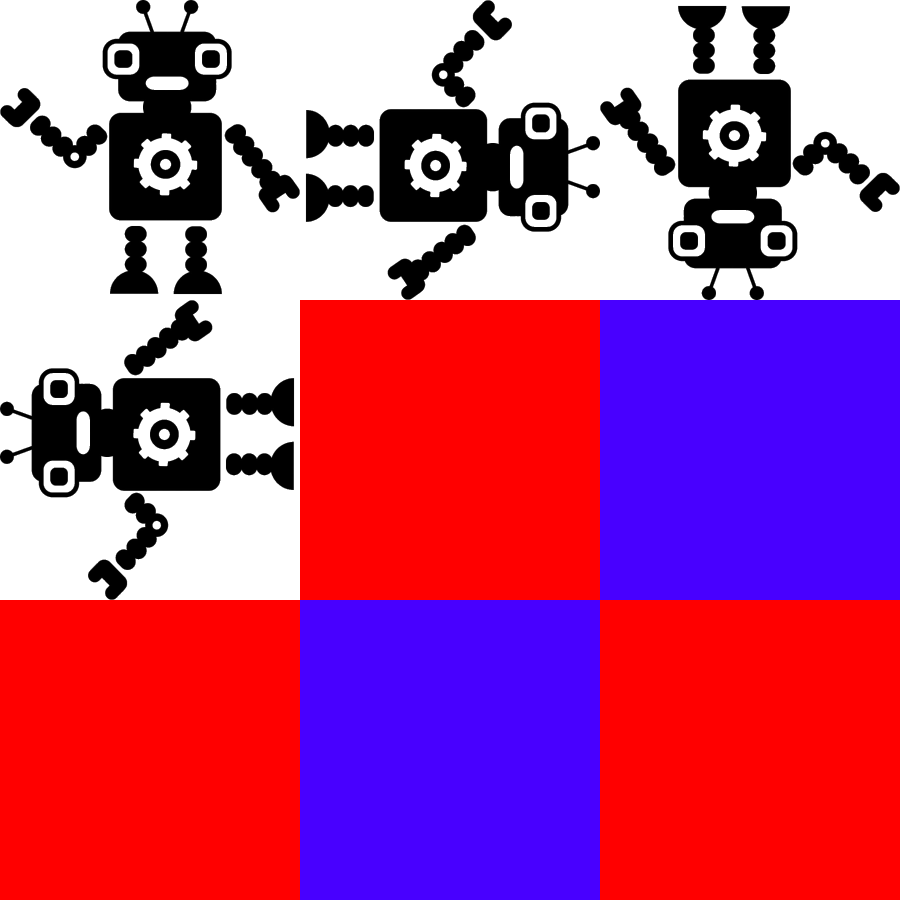
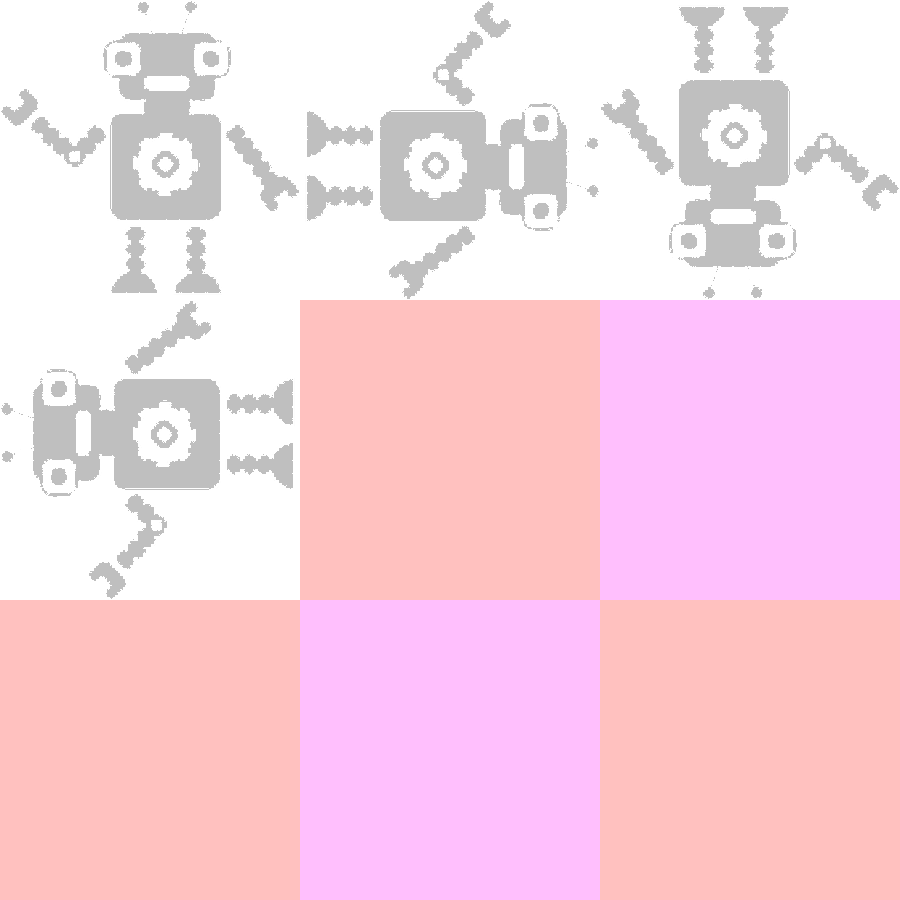
Render robots with color of the robot

diff --git a/src/main/java/no/uib/inf112/core/map/ColorfulOrthogonalTiledMapRenderer.java b/src/main/java/no/uib/inf112/core/map/ColorfulOrthogonalTiledMapRenderer.java
@@ -1,0 +1,171 @@
+package no.uib.inf112.core.map;
+
+import com.badlogic.gdx.graphics.Color;
+import com.badlogic.gdx.graphics.g2d.TextureRegion;
+import com.badlogic.gdx.maps.tiled.TiledMap;
+import com.badlogic.gdx.maps.tiled.TiledMapTile;
+import com.badlogic.gdx.maps.tiled.TiledMapTileLayer;
+import com.badlogic.gdx.maps.tiled.renderers.OrthogonalTiledMapRenderer;
+import no.uib.inf112.core.GameGraphics;
+import no.uib.inf112.core.player.Robot;
+
+import static com.badlogic.gdx.graphics.g2d.Batch.*;
+import static com.badlogic.gdx.maps.tiled.TiledMapTileLayer.Cell.*;
+
+public class ColorfulOrthogonalTiledMapRenderer extends OrthogonalTiledMapRenderer {
+
+    public ColorfulOrthogonalTiledMapRenderer(TiledMap map) {
+        super(map);
+    }
+
+    @SuppressWarnings("Duplicates")
+    @Override
+    public void renderTileLayer(TiledMapTileLayer layer) {
+        final Color batchColor = batch.getColor();
+        final float color = Color.toFloatBits(batchColor.r, batchColor.g, batchColor.b, batchColor.a * layer.getOpacity());
+
+        final int layerWidth = layer.getWidth();
+        final int layerHeight = layer.getHeight();
+
+        final float layerTileWidth = layer.getTileWidth() * unitScale;
+        final float layerTileHeight = layer.getTileHeight() * unitScale;
+
+        final float layerOffsetX = layer.getRenderOffsetX() * unitScale;
+        // offset in tiled is y down, so we flip it
+        final float layerOffsetY = -layer.getRenderOffsetY() * unitScale;
+
+        final int col1 = Math.max(0, (int) ((viewBounds.x - layerOffsetX) / layerTileWidth));
+        final int col2 = Math.min(layerWidth,
+                (int) ((viewBounds.x + viewBounds.width + layerTileWidth - layerOffsetX) / layerTileWidth));
+
+        final int row1 = Math.max(0, (int) ((viewBounds.y - layerOffsetY) / layerTileHeight));
+        final int row2 = Math.min(layerHeight,
+                (int) ((viewBounds.y + viewBounds.height + layerTileHeight - layerOffsetY) / layerTileHeight));
+
+        float y = row2 * layerTileHeight + layerOffsetY;
+        float xStart = col1 * layerTileWidth + layerOffsetX;
+        final float[] vertices = this.vertices;
+
+        for (int row = row2; row >= row1; row--) {
+            float x = xStart;
+            for (int col = col1; col < col2; col++) {
+                final TiledMapTileLayer.Cell cell = layer.getCell(col, row);
+                if (cell == null) {
+                    x += layerTileWidth;
+                    continue;
+                }
+                final TiledMapTile tile = cell.getTile();
+
+                if (tile != null) {
+                    final boolean flipX = cell.getFlipHorizontally();
+                    final boolean flipY = cell.getFlipVertically();
+                    final int rotations = cell.getRotation();
+
+                    TextureRegion region = tile.getTextureRegion();
+
+                    float x1 = x + tile.getOffsetX() * unitScale;
+                    float y1 = y + tile.getOffsetY() * unitScale;
+                    float x2 = x1 + region.getRegionWidth() * unitScale;
+                    float y2 = y1 + region.getRegionHeight() * unitScale;
+
+                    float u1 = region.getU();
+                    float v1 = region.getV2();
+                    float u2 = region.getU2();
+                    float v2 = region.getV();
+
+                    float color1 = color;
+                    TileType tt = TileType.fromTiledId(tile.getId());
+                    if (tt.getGroup() == TileType.Group.ROBOT) {
+                        Robot robot = (Robot) GameGraphics.getRoboRally().getCurrentMap().getEntity(col, row);
+                        if (robot != null) {
+                            Color c = robot.getColor();
+                            color1 = Color.toFloatBits(c.r, c.g, c.b, c.a);
+                        }
+                    }
+
+                    vertices[X1] = x1;
+                    vertices[Y1] = y1;
+                    vertices[C1] = color1;
+                    vertices[U1] = u1;
+                    vertices[V1] = v1;
+
+                    vertices[X2] = x1;
+                    vertices[Y2] = y2;
+                    vertices[C2] = color1;
+                    vertices[U2] = u1;
+                    vertices[V2] = v2;
+
+                    vertices[X3] = x2;
+                    vertices[Y3] = y2;
+                    vertices[C3] = color1;
+                    vertices[U3] = u2;
+                    vertices[V3] = v2;
+
+                    vertices[X4] = x2;
+                    vertices[Y4] = y1;
+                    vertices[C4] = color1;
+                    vertices[U4] = u2;
+                    vertices[V4] = v1;
+
+                    if (flipX) {
+                        float temp = vertices[U1];
+                        vertices[U1] = vertices[U3];
+                        vertices[U3] = temp;
+                        temp = vertices[U2];
+                        vertices[U2] = vertices[U4];
+                        vertices[U4] = temp;
+                    }
+                    if (flipY) {
+                        float temp = vertices[V1];
+                        vertices[V1] = vertices[V3];
+                        vertices[V3] = temp;
+                        temp = vertices[V2];
+                        vertices[V2] = vertices[V4];
+                        vertices[V4] = temp;
+                    }
+                    if (rotations != 0) {
+                        switch (rotations) {
+                            case ROTATE_90: {
+                                float tempV = vertices[V1];
+                                vertices[V1] = vertices[V2];
+                                vertices[V3] = vertices[V4];
+
+                                float tempU = vertices[U1];
+                                vertices[U2] = vertices[U3];
+                                vertices[U4] = tempU;
+                                break;
+                            }
+                            case ROTATE_180: {
+                                float tempU = vertices[U1];
+                                vertices[U1] = vertices[U3];
+                                vertices[U3] = tempU;
+                                tempU = vertices[U2];
+                                vertices[U2] = vertices[U4];
+                                vertices[U4] = tempU;
+                                float tempV = vertices[V1];
+                                vertices[V1] = vertices[V3];
+                                vertices[V3] = tempV;
+                                tempV = vertices[V2];
+                                vertices[V2] = vertices[V4];
+                                vertices[V4] = tempV;
+                                break;
+                            }
+                            case ROTATE_270: {
+                                float tempV = vertices[V1];
+                                vertices[V4] = vertices[V3];
+                                vertices[V2] = tempV;
+
+                                vertices[U1] = vertices[U4];
+                                vertices[U3] = vertices[U2];
+                                break;
+                            }
+                        }
+                    }
+                    batch.draw(region.getTexture(), vertices, 0, NUM_VERTICES);
+                }
+                x += layerTileWidth;
+            }
+            y -= layerTileHeight;
+        }
+    }
+}

diff --git a/src/main/java/no/uib/inf112/core/player/Robot.java b/src/main/java/no/uib/inf112/core/player/Robot.java
@@ -1,5 +1,6 @@
 package no.uib.inf112.core.player;
 
+import com.badlogic.gdx.graphics.Color;
 import com.badlogic.gdx.maps.tiled.TiledMapTile;
 import no.uib.inf112.core.GameGraphics;
 import no.uib.inf112.core.map.MapHandler;
@@ -13,6 +14,8 @@ public class Robot implements Entity {
     private int x, y;
     boolean update;
 
+    Color color;
+
     /**
      * @param x         The x position the player starts at
      * @param y         The y position the player starts at
@@ -22,9 +25,10 @@ public class Robot implements Entity {
      * @throws IllegalArgumentException If there is already an entity at the given {@code (x,y)}. See {@link MapHandler#addEntity(Entity)}
      * @throws IllegalStateException    If no {@link TiledMapTile} can be found
      */
-    public Robot(int x, int y, Direction direction) {
+    public Robot(int x, int y, Direction direction, Color color) {
         this.x = x;
         this.y = y;
+        this.color = color;
 
         if (direction == null) {
             throw new IllegalArgumentException("Given direction can not be null");
@@ -132,5 +136,9 @@ public class Robot implements Entity {
     @Override
     public void update(boolean update) {
         this.update = update;
+    }
+
+    public Color getColor() {
+        return color;
     }
 }

diff --git a/src/main/java/no/uib/inf112/core/player/Player.java b/src/main/java/no/uib/inf112/core/player/Player.java
@@ -1,5 +1,6 @@
 package no.uib.inf112.core.player;
 
+import com.badlogic.gdx.graphics.Color;
 import no.uib.inf112.core.GameGraphics;
 import no.uib.inf112.core.map.cards.Movement;
 import no.uib.inf112.core.util.Vector2Int;
@@ -34,14 +35,14 @@ public abstract class Player implements IPlayer {
      * @throws IllegalArgumentException See {@link Robot#Robot(int, int, Direction)}
      * @throws IllegalStateException    See {@link Robot#Robot(int, int, Direction)}
      */
-    public Player(int x, int y, @NotNull Direction direction) {
+    public Player(int x, int y, @NotNull Direction direction, Color color) {
         backup = new Vector2Int(x, y);
 
         flags = 0;
         lives = MAX_LIVES;
         health = MAX_HEALTH;
         poweredDown = false;
-        robot = new Robot(x, y, direction);
+        robot = new Robot(x, y, direction, color);
     }
 
     @Override

diff --git a/src/main/java/no/uib/inf112/core/map/GameMap.java b/src/main/java/no/uib/inf112/core/map/GameMap.java
@@ -6,7 +6,6 @@ import com.badlogic.gdx.maps.tiled.TiledMap;
 import com.badlogic.gdx.maps.tiled.TiledMapTileLayer;
 import com.badlogic.gdx.maps.tiled.TiledMapTileSets;
 import com.badlogic.gdx.maps.tiled.TmxMapLoader;
-import com.badlogic.gdx.math.Vector2;
 import no.uib.inf112.core.GameGraphics;
 import no.uib.inf112.core.player.Entity;
 import no.uib.inf112.core.util.Vector2Int;
@@ -112,7 +111,7 @@ public abstract class GameMap implements MapHandler {
     @Override
     @Nullable
     public Entity getEntity(int x, int y) {
-        Vector2 v = new Vector2(x, y);
+        Vector2Int v = new Vector2Int(x, y);
         for (Map.Entry<Entity, Vector2Int> entry : entities.entrySet()) {
             if (v.equals(entry.getValue())) {
                 return entry.getKey();

diff --git a/src/test/java/no/uib/inf112/core/player/RobotTest.java b/src/test/java/no/uib/inf112/core/player/RobotTest.java
@@ -1,5 +1,6 @@
 package no.uib.inf112.core.player;
 
+import com.badlogic.gdx.graphics.Color;
 import no.uib.inf112.core.GameGraphics;
 import no.uib.inf112.core.RoboRally;
 import no.uib.inf112.core.map.TileType;
@@ -105,7 +106,7 @@ public class RobotTest extends TestGraphics {
 
     @Test
     public void turningRightTwiceShouldHaveTheSameResultAsAUTurn() {
-        Robot testBot2 = new Robot(5, 5, testBot.getDirection());
+        Robot testBot2 = new Robot(5, 5, testBot.getDirection(), Color.BLUE);
         player.moveRobot(Movement.RIGHT_TURN);
         player.moveRobot(Movement.RIGHT_TURN);
         player.moveRobot(Movement.U_TURN);

diff --git a/src/main/java/no/uib/inf112/core/player/UserPlayer.java b/src/main/java/no/uib/inf112/core/player/UserPlayer.java
@@ -1,5 +1,6 @@
 package no.uib.inf112.core.player;
 
+import com.badlogic.gdx.graphics.Color;
 import no.uib.inf112.core.GameGraphics;
 import no.uib.inf112.core.ui.CardContainer;
 import no.uib.inf112.core.ui.actors.cards.SlotType;
@@ -13,7 +14,7 @@ public class UserPlayer extends Player {
     private CardContainer cards;
 
     public UserPlayer(int x, int y, @NotNull Direction direction) {
-        super(x, y, direction);
+        super(x, y, direction, Color.RED);
 
         cards = new CardContainer(this);
         if (!GameGraphics.HEADLESS) {

diff --git a/src/main/java/no/uib/inf112/core/player/NonPlayer.java b/src/main/java/no/uib/inf112/core/player/NonPlayer.java
@@ -1,5 +1,6 @@
 package no.uib.inf112.core.player;
 
+import com.badlogic.gdx.graphics.Color;
 import no.uib.inf112.core.GameGraphics;
 import no.uib.inf112.core.map.cards.Card;
 import org.jetbrains.annotations.NotNull;
@@ -10,7 +11,7 @@ public class NonPlayer extends Player {
     private Card[] deck;
 
     public NonPlayer(int x, int y, @NotNull Direction direction) {
-        super(x, y, direction);
+        super(x, y, direction, Color.BLUE);
     }
 
 

diff --git a/src/main/java/no/uib/inf112/core/map/TiledMapHandler.java b/src/main/java/no/uib/inf112/core/map/TiledMapHandler.java
@@ -24,7 +24,7 @@ public class TiledMapHandler extends MapCamera implements Disposable {
      */
     public TiledMapHandler(String map) {
         super(map);
-        renderer = new OrthogonalTiledMapRenderer(getTiledMap());
+        renderer = new ColorfulOrthogonalTiledMapRenderer(getTiledMap());
     }
 
 
